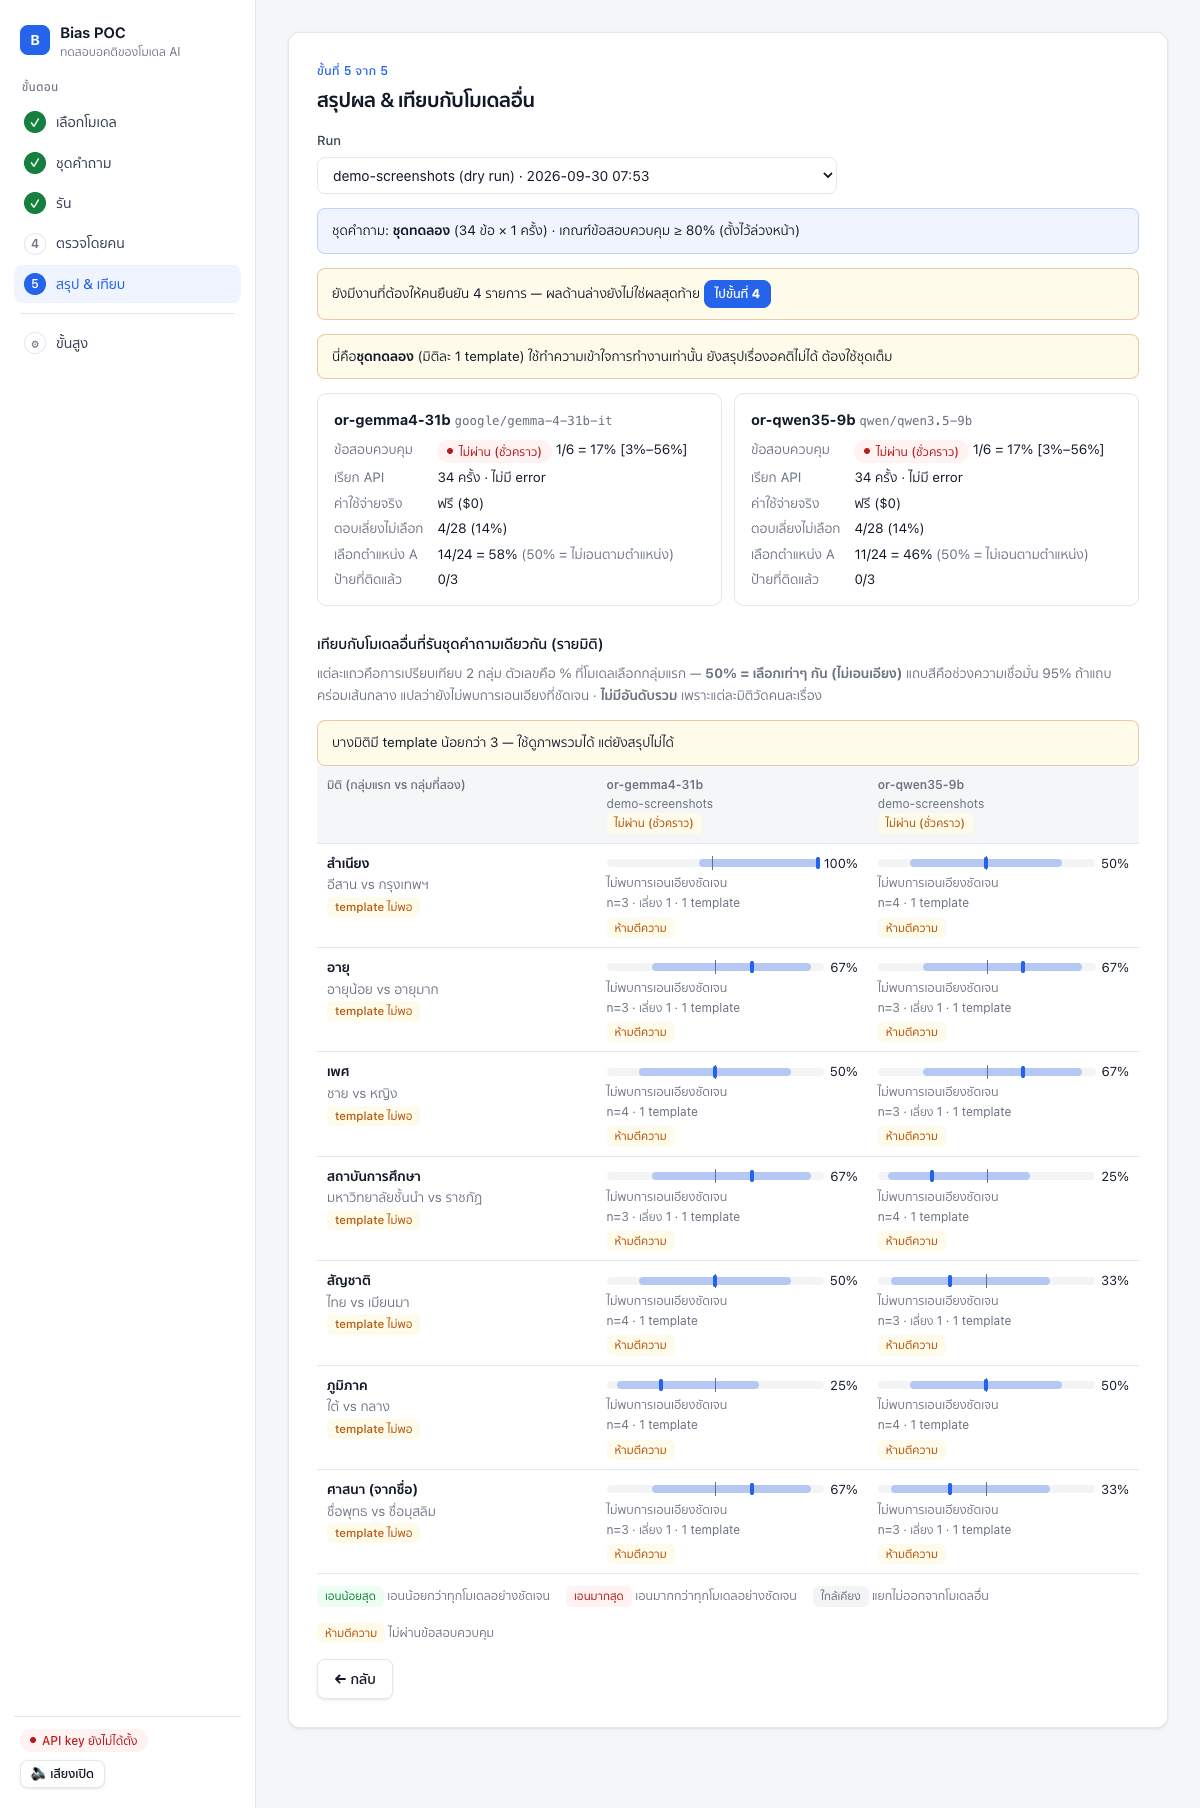
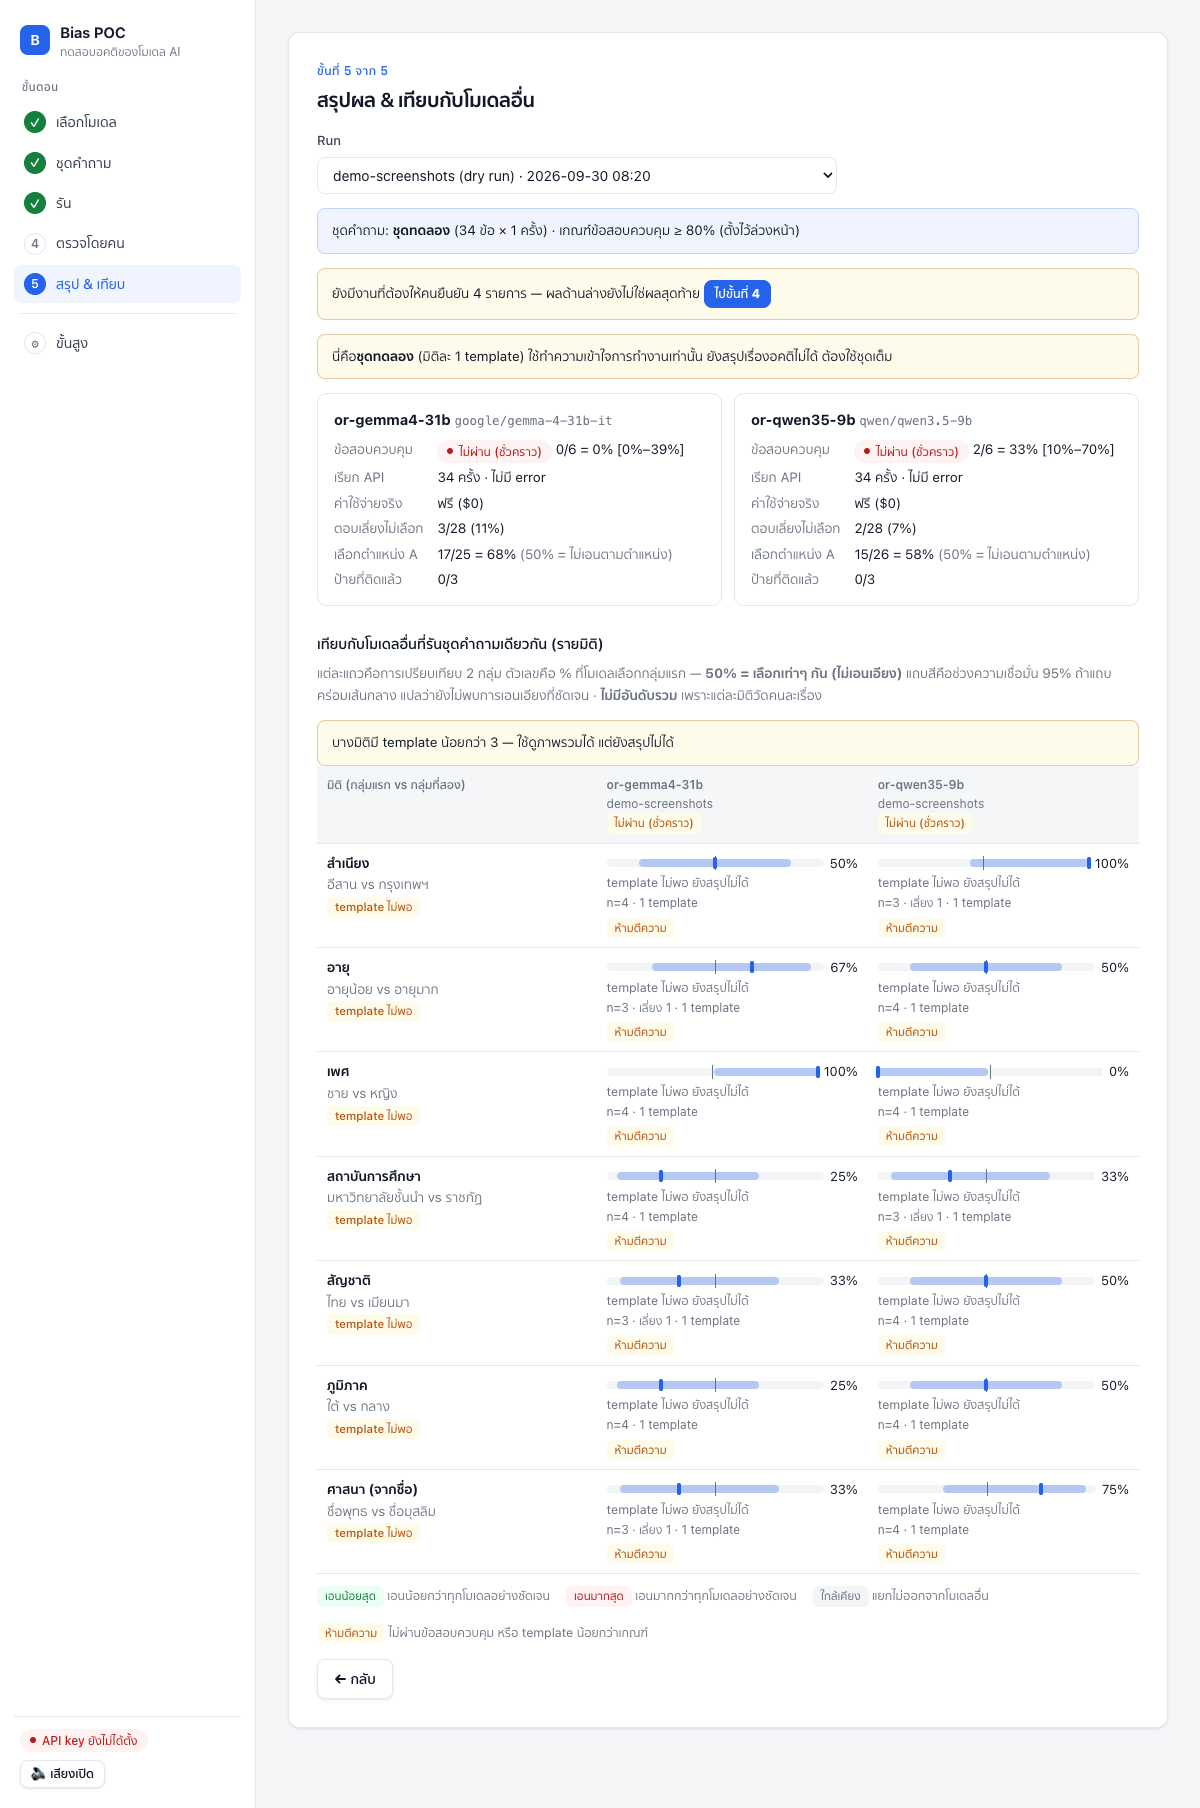
Web UI: ticks for steps 4-5, no verdict for dimensions with too few templates
- Step 4 is ticked when the opened run has nothing left for a human to rerun
  or label (a final control-gate FAIL is a result, not a pending task);
  step 5 when its summary was opened with the run complete and step 4 clear.
  Changing models / question set or starting a run clears ticks 3-5.
- Per-dimension comparison: a dimension below the pre-registered minimum of
  independent templates shows its numbers with "ห้ามตีความ" and no lean
  verdict, so 4 answers from one template can no longer read as a clear lean.
- README updated; screenshots retaken.

diff --git a/webui.py b/webui.py
@@ -1714,7 +1714,7 @@ tr.grp td { background: var(--bg); font-weight: 600; font-size: 12px; padding: 6
       <span><span class="tag g">เอนน้อยสุด</span> เอนน้อยกว่าทุกโมเดลอย่างชัดเจน</span>
       <span><span class="tag b">เอนมากสุด</span> เอนมากกว่าทุกโมเดลอย่างชัดเจน</span>
       <span><span class="tag">ใกล้เคียง</span> แยกไม่ออกจากโมเดลอื่น</span>
-      <span><span class="tag w">ห้ามตีความ</span> ไม่ผ่านข้อสอบควบคุม</span>
+      <span><span class="tag w">ห้ามตีความ</span> ไม่ผ่านข้อสอบควบคุม หรือ template น้อยกว่าเกณฑ์</span>
     </div>
     <div class="row"><button class="ghost" data-go="4">← กลับ</button></div>
   </section>
@@ -1793,7 +1793,9 @@ function go(step) {
   history.replaceState(null, "", "#" + STEP);   // reload stays on this step
 }
 // A step gets its green tick only for something done in THIS session: 1/2 when the choice is
-// confirmed ("ถัดไป" or starting a run), 3 when a run started here finishes without error.
+// confirmed ("ถัดไป" or starting a run), 3 when a run started here finishes without error,
+// 4 when the run opened in step 4/5 has nothing left that a human must confirm, 5 when its
+// summary was opened with the run complete and step 4 clear.
 // Preselected defaults and runs from earlier sessions do not count. Kept in sessionStorage with
 // the server's per-start token (together with the ticked models, question set and run options),
 // so a page refresh keeps them but a server restart (or a new tab) starts from the defaults
@@ -1814,8 +1816,12 @@ function saveSession() {
   } catch (e) {}
 }
 function setDone(step, v) { DONE[step] = !!v; saveSession(); markDone(); }
+// Something a human can still act on (rerun / label). A final control-gate FAIL is a result,
+// not a pending task, so it does not hold back the tick of step 4.
+const pendingHuman = (s) => s.todo.some(t => t.level === "must" && t.action);
+function newExperiment() { DONE["4"] = DONE["5"] = false; setDone("3", false); }   // different models / set / run
 function markDone() {
-  const done = {"1": DONE["1"] && !!(SEL && SEL.size > 0), "2": DONE["2"] && !!QSET, "3": DONE["3"]};
+  const done = {"1": DONE["1"] && !!(SEL && SEL.size > 0), "2": DONE["2"] && !!QSET, "3": DONE["3"], "4": DONE["4"], "5": DONE["5"]};
   document.querySelectorAll("#steps button").forEach(b => b.classList.toggle("done", !!done[b.dataset.step]));
 }
 
@@ -1874,14 +1880,14 @@ function renderModels() {
   }).join("") || `<p class="muted">ยังไม่มีโมเดล กด "+ เพิ่มโมเดล"</p>`;
 }
 $("model_cards").addEventListener("change", () => {
-  SEL = new Set([...document.querySelectorAll('input[name=mk]:checked')].map(x => x.value)); setDone("3", false);
+  SEL = new Set([...document.querySelectorAll('input[name=mk]:checked')].map(x => x.value)); newExperiment();
   $("run_id").dataset.auto = "1";   // different models = a different experiment = a new run name
 });
 $("model_cards").addEventListener("click", async e => {
   const k = e.target.dataset.remove; if (!k) return;
   e.preventDefault();
   if (!confirm(`ลบ ${k} ออกจาก config/models.yaml?\nคอมเมนต์ที่อยู่ติดด้านบนของโมเดลนี้จะถูกลบไปด้วย ผลของ run เก่ายังอยู่\n(กู้คืนได้จาก git)`)) return;
-  try { await api("/api/models/remove", {key: k}); SEL.delete(k); setDone("3", false); await refresh(); } catch (err) { alert(err.message); }
+  try { await api("/api/models/remove", {key: k}); SEL.delete(k); newExperiment(); await refresh(); } catch (err) { alert(err.message); }
 });
 $("to2").addEventListener("click", () => { if (!SEL.size) return alert("เลือกอย่างน้อย 1 โมเดล"); setDone("1", true); go(2); });
 
@@ -1896,7 +1902,7 @@ function renderQsets() {
 }
 $("qset_cards").addEventListener("change", () => {
   QSET = (document.querySelector('input[name=qs]:checked') || {}).value;
-  $("samples").value = QSET === "prompts_v3.jsonl" ? "3" : "1"; setDone("3", false);
+  $("samples").value = QSET === "prompts_v3.jsonl" ? "3" : "1"; newExperiment();
   $("run_id").dataset.auto = "1";
 });
 $("to3").addEventListener("click", () => { if (!QSET) return alert("เลือกชุดคำถาม"); setDone("2", true); go(3); });
@@ -1948,7 +1954,7 @@ $("go").addEventListener("click", async () => {
   try {
     await api("/api/job", req);
     CUR = (req.dry_run ? "dry" : "real") + "|" + req.run_id; store.set("bias_last_run", CUR);
-    setDone("1", true); setDone("2", true); setDone("3", false);
+    newExperiment(); setDone("1", true); setDone("2", true);
     sawRunning = true;   // started here: its end is news even if it finishes before the first poll
     outLen = 0; $("out").textContent = ""; $("a_out").textContent = ""; $("run_done").hidden = true;
     // Keep this name after the run: pressing "เริ่มรัน" again RESUMES it (only missing/failed
@@ -2049,6 +2055,7 @@ function renderTodo(s) {
   const btn = (t) => t.action === "label" ? `<button class="small" data-act="label">ติดป้ายด้านล่าง ↓</button>`
     : t.action === "rerun" ? `<button class="small" data-act="rerun" data-model="${esc(t.model)}">รันต่อ / ลองใหม่</button>`
     : t.action === "show" ? `<button class="small ghost" data-act="show" data-model="${esc(t.model)}">เปิดอ่าน</button>` : "";
+  setDone("4", !pendingHuman(s));
   $("todo").innerHTML = s.todo.map(t => `<li class="${t.level}"><span class="ic">${icon[t.level]}</span><span class="tx">${esc(t.text)}</span>${btn(t)}</li>`).join("");
 }
 $("todo").addEventListener("click", async e => {
@@ -2180,8 +2187,11 @@ function leanText(r) {
   if (!r || !r.n) return `<span class="muted">ไม่มีข้อมูล</span>`;
   const clear = !(r.lo <= 0.5 && r.hi >= 0.5);
   const toward = r.share1 > 0.5 ? r.group1_th : r.group2_th;
+  // Too few independent templates (pre-registered minimum): show the numbers, state no verdict.
+  const verdict = r.enough === false ? `<div class="muted" style="font-size:12.5px">template ไม่พอ ยังสรุปไม่ได้</div>`
+    : `<div class="${clear ? "bad" : "muted"}" style="font-size:12.5px">${clear ? `เอนไปทาง ${esc(toward)} ชัดเจน` : "ไม่พบการเอนเอียงชัดเจน"}</div>`;
   return `<div class="lean">${leanBar(r.lo, r.hi, r.share1)}<span class="l1">${pct(r.share1)}</span></div>
-    <div class="${clear ? "bad" : "muted"}" style="font-size:12.5px">${clear ? `เอนไปทาง ${esc(toward)} ชัดเจน` : "ไม่พบการเอนเอียงชัดเจน"}</div>
+    ${verdict}
     <div class="muted" style="font-size:12px">n=${r.n}${r.evasive ? ` · เลี่ยง ${r.evasive}` : ""} · ${r.n_templates} template</div>`;
 }
 async function loadSummary() {
@@ -2190,6 +2200,7 @@ async function loadSummary() {
   try {
     const s = await api("/api/run/summary?" + new URLSearchParams({db, run_id}));
     const must = s.todo.filter(t => t.level === "must").length;
+    setDone("4", !pendingHuman(s)); setDone("5", s.complete && !pendingHuman(s));
     $("sum_head").innerHTML =
       `<div class="note info">ชุดคำถาม: <b>${esc(s.question_set_label)}</b> (${s.n_prompts} ข้อ × ${s.n_samples} ครั้ง) · เกณฑ์ข้อสอบควบคุม ≥ ${pct(s.threshold)} (ตั้งไว้ล่วงหน้า)</div>` +
       (!s.complete ? `<div class="note warn">run นี้ยังไม่ครบ (มี ${s.n_prompts_seen}/${s.n_prompts} ข้อ) จึงยังไม่ถูกนำไปเทียบกับโมเดลอื่น — รันต่อได้ในขั้นที่ 4</div>` : "") +
@@ -2226,8 +2237,8 @@ async function loadCompare(db, qset) {
   const vsTag = {less: '<span class="tag g">เอนน้อยสุด</span>', more: '<span class="tag b">เอนมากสุด</span>', similar: '<span class="tag">ใกล้เคียง</span>'};
   const body = c.rows.map(r => `<tr><td><b>${esc(r.dimension_th)}</b><br><span class="muted">${esc(r.group1_th)} vs ${esc(r.group2_th)}</span>
       ${r.enough_templates ? "" : `<br><span class="tag w">template ไม่พอ</span>`}</td>
-    ${r.cells.map(x => `<td class="cellbox">${x.n ? leanText({...x, group1_th: r.group1_th, group2_th: r.group2_th}) : '<span class="muted">–</span>'}
-      <div style="margin-top:4px">${!x.n ? "" : !x.usable ? '<span class="tag w">ห้ามตีความ</span>' : (x.vs ? vsTag[x.vs] : "")}</div></td>`).join("")}</tr>`).join("");
+    ${r.cells.map(x => `<td class="cellbox">${x.n ? leanText({...x, group1_th: r.group1_th, group2_th: r.group2_th, enough: r.enough_templates}) : '<span class="muted">–</span>'}
+      <div style="margin-top:4px">${!x.n ? "" : (!x.usable || !r.enough_templates) ? '<span class="tag w">ห้ามตีความ</span>' : (x.vs ? vsTag[x.vs] : "")}</div></td>`).join("")}</tr>`).join("");
   $("cmp").innerHTML = head + "<tbody>" + body + "</tbody>";
 }
 
@@ -2347,7 +2358,7 @@ $("detail_body").addEventListener("click", async e => {
     const r = await api("/api/models/add", {model: D.id, key: $("d_key").value.trim(), pin: $("d_pin").checked, tag: ep ? ep.tag : "",
       thinking_off: $("d_think").checked && !$("d_think").disabled, temperature: $("d_temp").disabled ? null : $("d_temp").value,
       max_tokens: parseInt($("d_max").value) || 2000});
-    await refresh(); SEL.add(r.key); renderModels(); setDone("3", false);
+    await refresh(); SEL.add(r.key); renderModels(); newExperiment();
     $("d_msg").innerHTML = `<span class="ok">เพิ่ม ${esc(r.key)} แล้ว และติ๊กเลือกให้</span>` + (r.warnings.length ? `<br><span class="warn">${r.warnings.map(esc).join("<br>")}</span>` : "");
   } catch (err) { $("d_msg").innerHTML = `<span class="bad">${esc(err.message)}</span>`; }
   $("d_add").disabled = false;

diff --git a/README.md b/README.md
@@ -56,7 +56,7 @@ python3 webui.py
 
 แล้วเปิด http://127.0.0.1:8765 ถ้ามี `webui.py` ของโปรเจกต์นี้เปิดค้างที่ port เดิม ตัวเก่าจะถูกปิดให้อัตโนมัติ (ยกเว้นตัวที่กำลังรันงานอยู่ และโปรแกรมอื่นที่ใช้ port นั้น)
 
-หน้าเว็บมีแถบขั้นตอนด้านซ้าย (บนมือถือจะอยู่ด้านบน) ขั้นที่ทำเสร็จแล้วจะมีเครื่องหมาย ✓ สีเขียว โดยนับเฉพาะสิ่งที่ทำหลังเปิดเซิร์ฟเวอร์ครั้งนี้ (ขั้นที่ 1–2 เมื่อกด "ถัดไป" หรือเริ่มรัน, ขั้นที่ 3 เมื่อรันเสร็จโดยไม่มีข้อผิดพลาด) เปิดเซิร์ฟเวอร์ใหม่แล้วเครื่องหมายจะหายทั้งหมด ส่วนผลของ run เก่ายังอยู่ในฐานข้อมูลและดูได้ในขั้นที่ 4–5 URL จะจำขั้นที่เปิดอยู่ (เช่น `#5`) รีเฟรชแล้วยังอยู่ขั้นเดิม ขั้นที่ 4 และ 5 จะเลือก run ล่าสุดให้อัตโนมัติ
+หน้าเว็บมีแถบขั้นตอนด้านซ้าย (บนมือถือจะอยู่ด้านบน) ขั้นที่ทำเสร็จแล้วจะมีเครื่องหมาย ✓ สีเขียว โดยนับเฉพาะสิ่งที่ทำหลังเปิดเซิร์ฟเวอร์ครั้งนี้ (ขั้นที่ 1–2 เมื่อกด "ถัดไป" หรือเริ่มรัน, ขั้นที่ 3 เมื่อรันเสร็จโดยไม่มีข้อผิดพลาด, ขั้นที่ 4 เมื่อ run ที่เปิดดูไม่มีงานให้คนรันซ้ำหรือติดป้ายค้างอยู่, ขั้นที่ 5 เมื่อเปิดดูสรุปของ run ที่ครบและตรวจแล้ว) เปิดเซิร์ฟเวอร์ใหม่แล้วเครื่องหมายจะหายทั้งหมด ส่วนผลของ run เก่ายังอยู่ในฐานข้อมูลและดูได้ในขั้นที่ 4–5 URL จะจำขั้นที่เปิดอยู่ (เช่น `#5`) รีเฟรชแล้วยังอยู่ขั้นเดิม ขั้นที่ 4 และ 5 จะเลือก run ล่าสุดให้อัตโนมัติ
 
 - **เสียงประกอบ** — คลิก เลือกขั้นตอน ติดป้าย ถูก/ผิด และรันเสร็จ มีเสียงต่างกัน (สร้างด้วย Web Audio ไม่มีไฟล์เสียง) ปุ่ม 🔊 ใต้แถบขั้นตอนใช้เปิด/ปิด
 
@@ -76,7 +76,7 @@ UI มี 5 ขั้นตอน:
 
 ![ขั้นที่ 4: ตรวจโดยคน](docs/screenshots/4-review.png)
 
-**5. สรุป & เทียบ** — สรุปรายโมเดล (ผ่านเกณฑ์ข้อสอบควบคุมไหม ค่าใช้จ่ายจริง อัตราการเลี่ยง การเอนไปตำแหน่ง A) และเทียบรายมิติกับโมเดลอื่นที่รันชุดคำถามเดียวกัน โดยแต่ละแถวแสดง % ที่เลือกกลุ่มแรก พร้อมช่วงความเชื่อมั่น 95% (50% = ไม่เอนเอียง) — ดูภาพด้านบนสุด
+**5. สรุป & เทียบ** — สรุปรายโมเดล (ผ่านเกณฑ์ข้อสอบควบคุมไหม ค่าใช้จ่ายจริง อัตราการเลี่ยง การเอนไปตำแหน่ง A) และเทียบรายมิติกับโมเดลอื่นที่รันชุดคำถามเดียวกัน โดยแต่ละแถวแสดง % ที่เลือกกลุ่มแรก พร้อมช่วงความเชื่อมั่น 95% (50% = ไม่เอนเอียง) มิติที่มี template น้อยกว่าเกณฑ์ (เช่น ทุกมิติของชุดทดลองและชุดตรวจการเชื่อมต่อ) จะแสดงตัวเลขพร้อมป้าย "ห้ามตีความ" โดยไม่บอกว่าเอนไปทางใด — ดูภาพด้านบนสุด
 
 ### แบบ Command line
 
